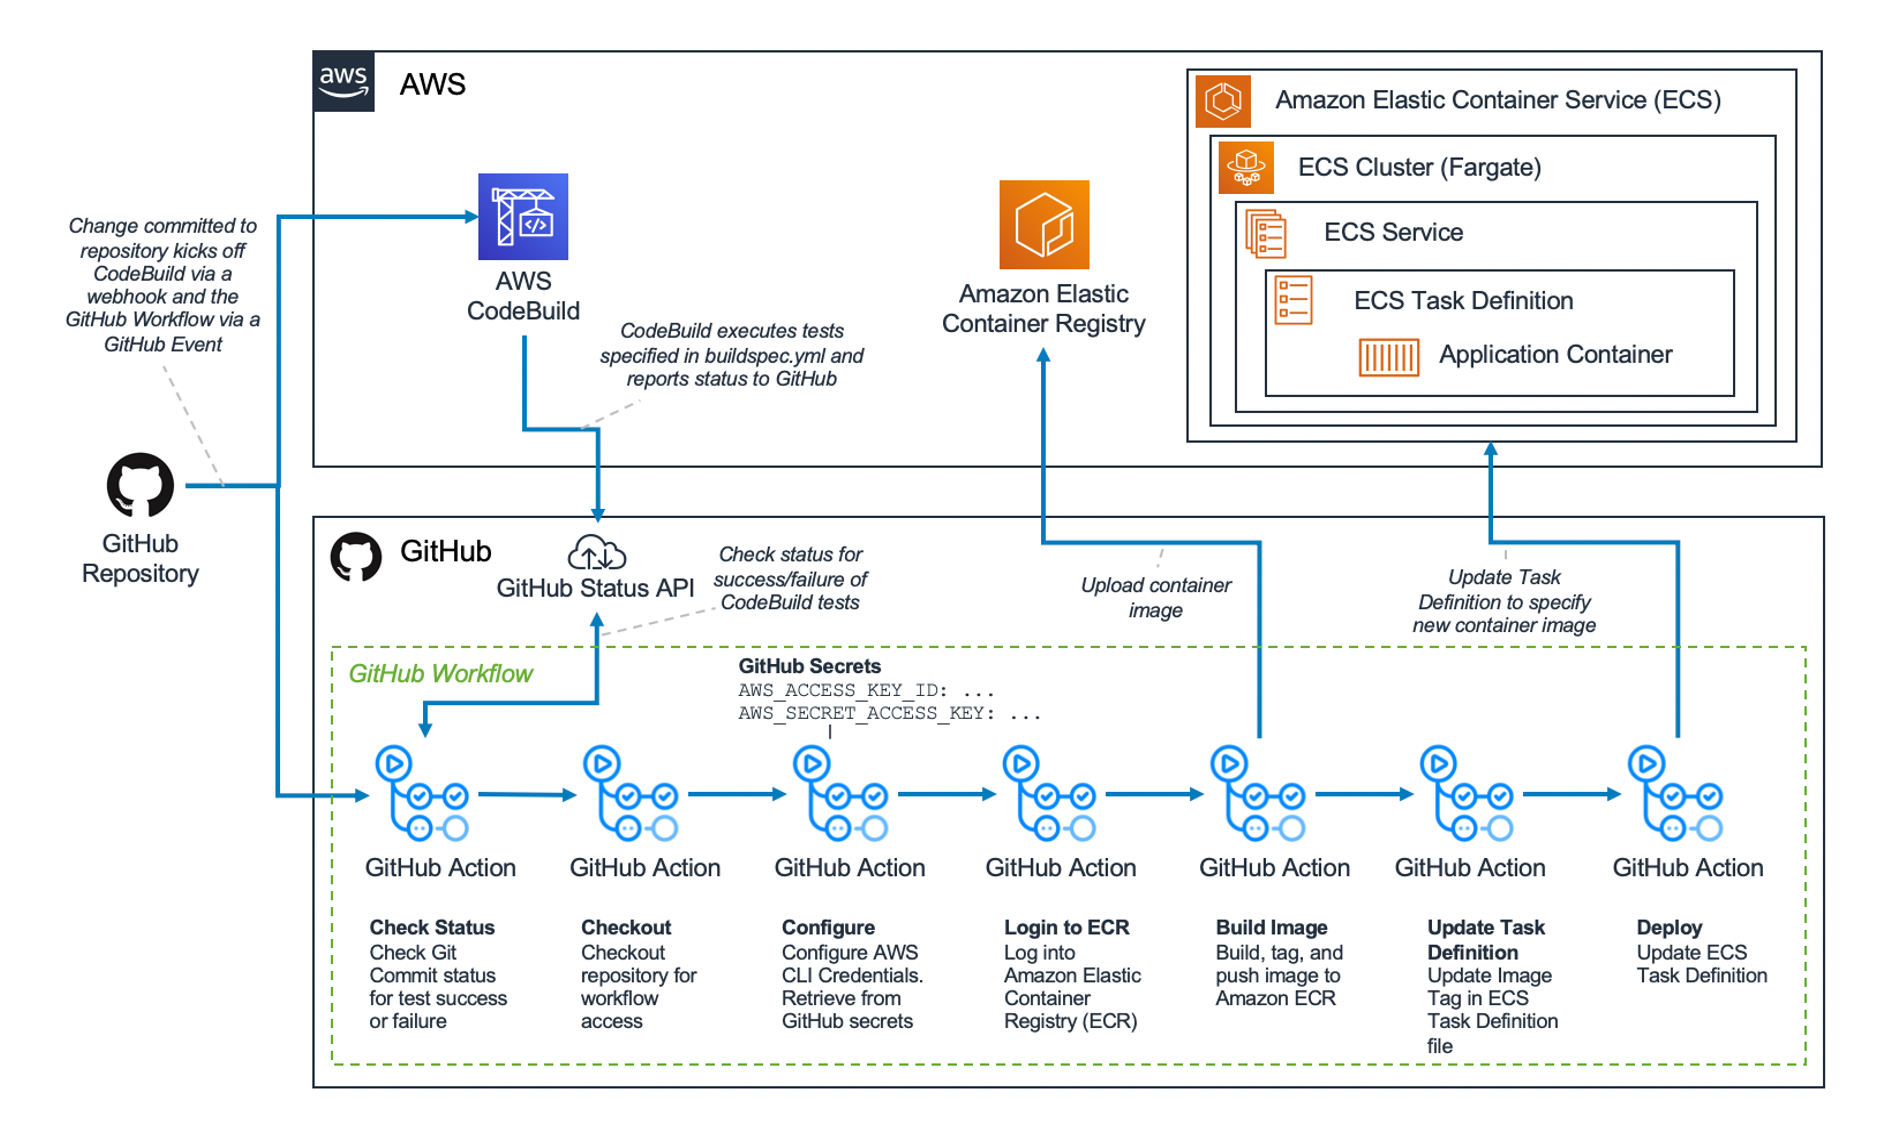
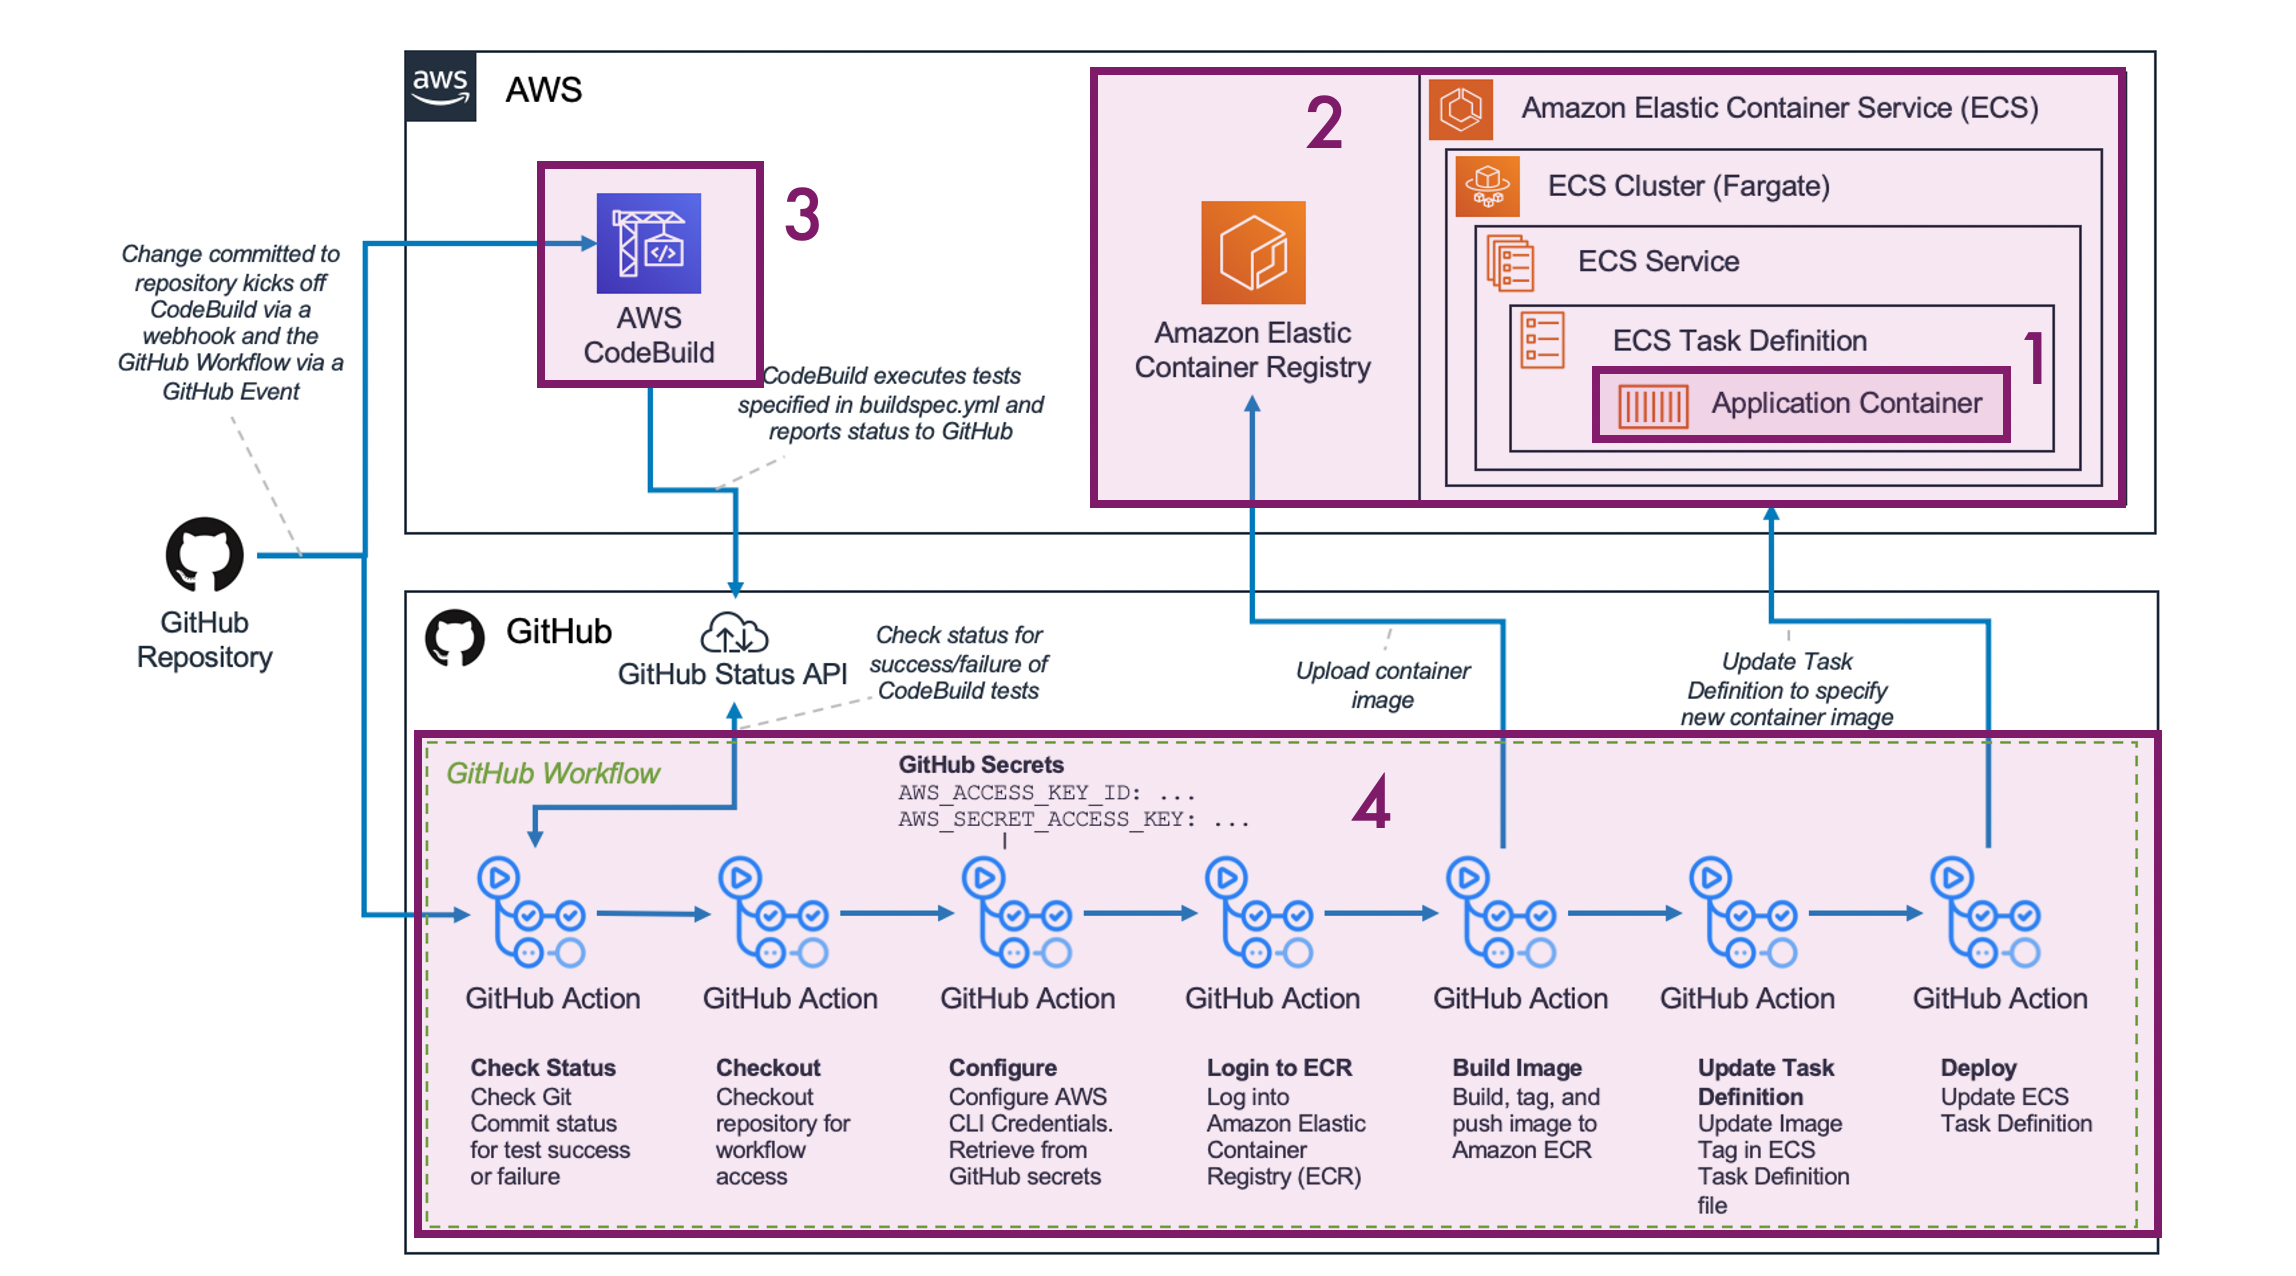
Update arch diagram and use numbered list

Changed region(s): [[0.0311, 0.0311, 0.9631, 0.9956], [0.5903, 0.6222, 0.6214, 0.6533]]

diff --git a/static/css/theme-mine.css b/static/css/theme-mine.css
@@ -28,7 +28,7 @@
 
 img {
     height: auto !important;
-    width: 75% !important;
+    width: 100% !important;
 }
 
 body {

diff --git a/content/_index.md b/content/_index.md
@@ -7,17 +7,17 @@ weight: 1
 
 ## What We'll Build
 
-In this workshop, we'll show organizations using GitHub as a source code repository can use GitHub Actions to build a complete CI/CD pipeline for applications deployed on Amazon ECS. This workshop also illustrates how AWS CodeBuild can be used with GitHub Actions to execute application tests as part of a complete CI/CD pipeline.
+In this workshop, we'll how show organizations using GitHub as a source code repository can use GitHub Actions to build a complete CI/CD pipeline for applications deployed on Amazon ECS. This workshop also illustrates how AWS CodeBuild can be used with GitHub Actions to execute application tests as part of a complete CI/CD pipeline.
 
 #### The workshop is divided into seven sections. You will:
 
-- Create a basic Flask web app
-- Create Amazon ECS Infrastructure using the CDK
-- Create an AWS CodeBuild Project
-- Create a GitHub Action
-- Check the build results
-- Fix the broken build
-- Clean up your AWS resources
+1. Create a basic Flask web app
+1. Create an Amazon ECS Infrastructure using the CDK
+1. Create an AWS CodeBuild Project
+1. Create a GitHub Action
+1. Check the build results
+1. Fix the broken build (optional)
+1. Clean up your AWS resources
 
 ## The Architecture
 
